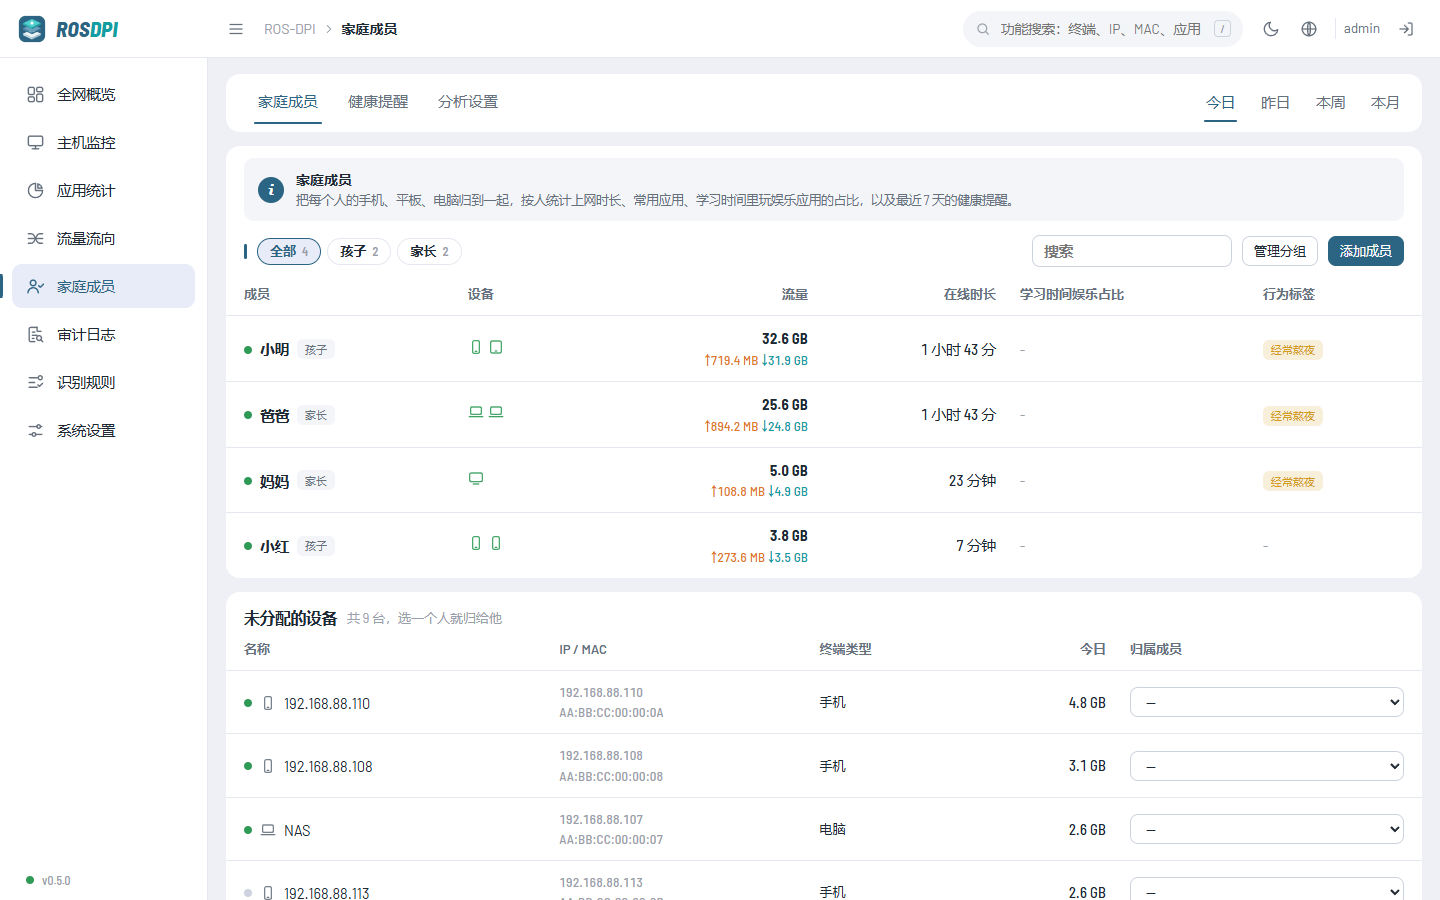
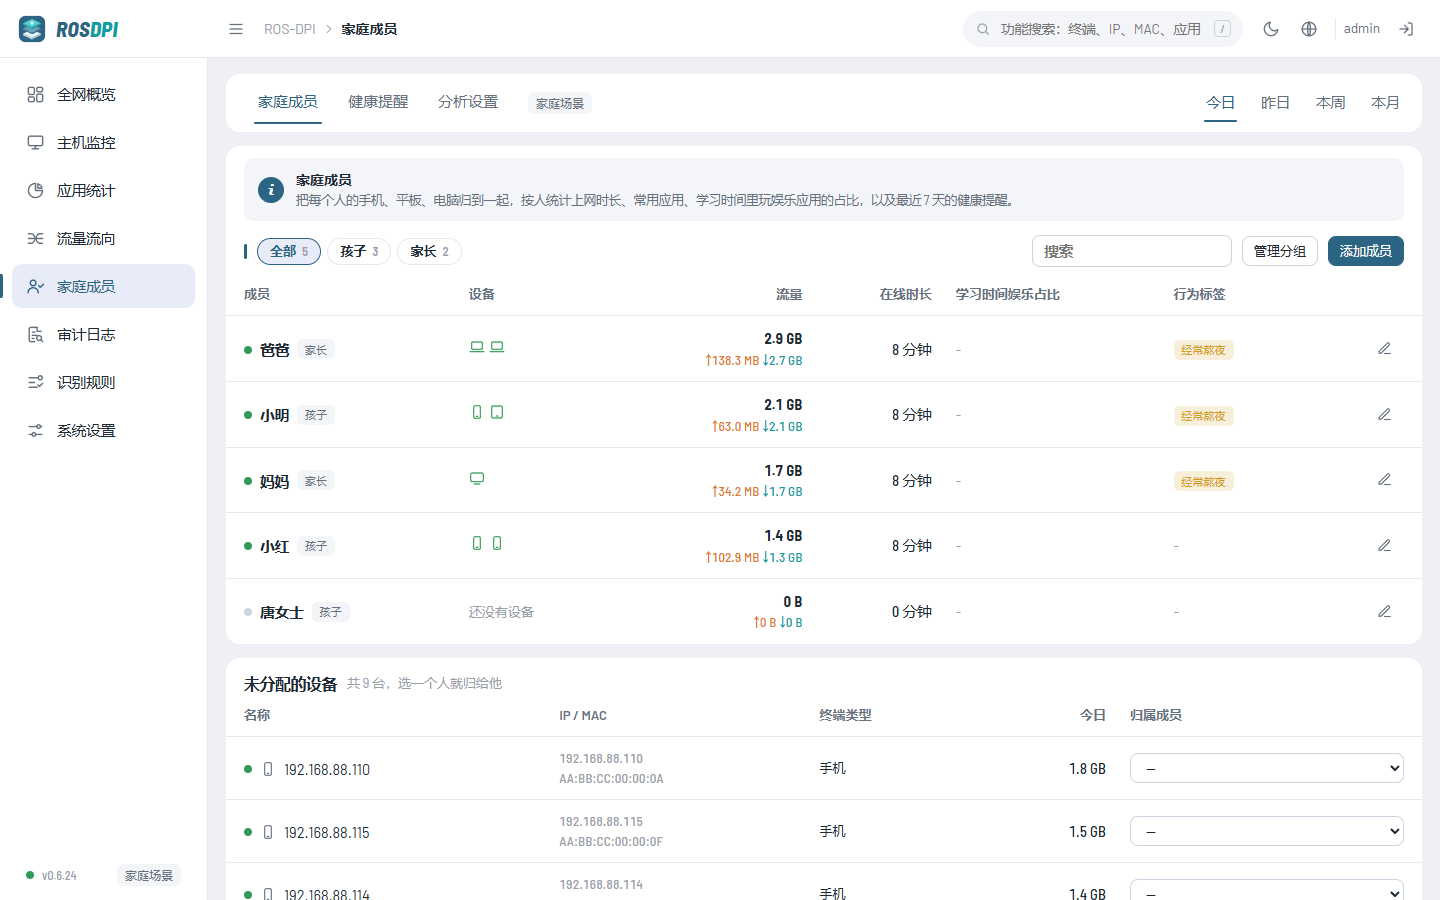
docs: README 截图换成 0.6.24 界面（17 类配色），补流量流向和家庭成员截图

diff --git a/README.md b/README.md
@@ -29,6 +29,10 @@
 
 ![应用统计](docs/images/apps-light.png)
 
+![流量流向](docs/images/flow-light.png)
+
+![家庭成员](docs/images/people-light.png)
+
 ### 三步上手
 
 1. **部署 ROS-DPI**：Linux 一条命令，或 Docker Compose（见[部署](#部署)）。
